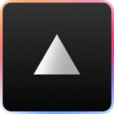
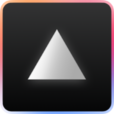
theme config

Changed region(s): [[0.2368, 0.2368, 0.7632, 0.7368]]

diff --git a/apps/docs/theme.config.jsx b/apps/docs/theme.config.jsx
@@ -5,7 +5,205 @@ export default {
   project: {
     link: 'https://github.com/shuding/nextra'
   },
-  logo: <strong>AI Utils</strong>,
+  logo: (
+    <span className="flex gap-2 font-bold text-lg items-center select-none">
+      <svg
+        xmlns="http://www.w3.org/2000/svg"
+        height="24"
+        fill="none"
+        viewBox="0 0 1024 1024"
+      >
+        <g clipPath="url(#clip0_102_208)">
+          <rect
+            width="977.455"
+            height="977.455"
+            x="23.273"
+            y="23.273"
+            fill="url(#paint0_linear_102_208)"
+            rx="79.515"
+          ></rect>
+          <g filter="url(#filter0_di_102_208)">
+            <path
+              fill="url(#paint1_linear_102_208)"
+              d="M511.03 306.424l210.424 362.667H300.606L511.03 306.424z"
+            ></path>
+          </g>
+          <mask
+            id="mask0_102_208"
+            style={{ maskType: 'alpha' }}
+            width="1024"
+            height="1024"
+            x="0"
+            y="0"
+            maskUnits="userSpaceOnUse"
+          >
+            <rect
+              width="1000.73"
+              height="1000.73"
+              x="11.636"
+              y="11.636"
+              stroke="#000"
+              strokeWidth="23.273"
+              rx="91.151"
+            ></rect>
+          </mask>
+          <g filter="url(#filter1_f_102_208)" mask="url(#mask0_102_208)">
+            <path
+              fill="url(#paint2_linear_102_208)"
+              d="M-88.638 197.111l277.355-340.626L630.689 41.738c37.58 187.244 55.072 561.734-175.591 561.734-194.273 0-240.351-110.687-239.325-192.224-23.622 150.658-122.154 378.807-377.242 339.629-43.1-30.278 30.596-381.793 72.83-553.766z"
+            ></path>
+            <path
+              fill="url(#paint3_linear_102_208)"
+              d="M514.513 329.324l339.424 273.797 333.033 24.789c-80.41 173.273-287.78 485.83-473.947 349.874-186.167-135.958-279.862 250.156-219.226 197.766-94.394 110.83-164.922-242.362-365.58-442.213-16.878-49.841 250.498-290.109 386.296-404.013z"
+            ></path>
+            <path
+              fill="url(#paint4_linear_102_208)"
+              d="M987.377 739.387L569.385 614.252 251.741 717.175c8.717-190.768 82.117-558.433 305.986-502.955 223.869 55.478 164.166-337.305 127.908-265.904 45.342-138.248 244.558 161.995 506.075 271.134 34.52 39.752-121.84 363.188-204.333 519.937z"
+            ></path>
+          </g>
+        </g>
+        <defs>
+          <filter
+            id="filter0_di_102_208"
+            width="579.879"
+            height="521.697"
+            x="221.091"
+            y="242.424"
+            colorInterpolationFilters="sRGB"
+            filterUnits="userSpaceOnUse"
+          >
+            <feFlood floodOpacity="0" result="BackgroundImageFix"></feFlood>
+            <feColorMatrix
+              in="SourceAlpha"
+              result="hardAlpha"
+              values="0 0 0 0 0 0 0 0 0 0 0 0 0 0 0 0 0 0 127 0"
+            ></feColorMatrix>
+            <feOffset dy="15.515"></feOffset>
+            <feGaussianBlur stdDeviation="39.758"></feGaussianBlur>
+            <feComposite in2="hardAlpha" operator="out"></feComposite>
+            <feColorMatrix values="0 0 0 0 0 0 0 0 0 0 0 0 0 0 0 0 0 0 0.25 0"></feColorMatrix>
+            <feBlend
+              in2="BackgroundImageFix"
+              result="effect1_dropShadow_102_208"
+            ></feBlend>
+            <feBlend
+              in="SourceGraphic"
+              in2="effect1_dropShadow_102_208"
+              result="shape"
+            ></feBlend>
+            <feColorMatrix
+              in="SourceAlpha"
+              result="hardAlpha"
+              values="0 0 0 0 0 0 0 0 0 0 0 0 0 0 0 0 0 0 127 0"
+            ></feColorMatrix>
+            <feOffset dx="0.97" dy="13.576"></feOffset>
+            <feGaussianBlur stdDeviation="0.97"></feGaussianBlur>
+            <feComposite
+              in2="hardAlpha"
+              k2="-1"
+              k3="1"
+              operator="arithmetic"
+            ></feComposite>
+            <feColorMatrix values="0 0 0 0 0.0286285 0 0 0 0 0.0404458 0 0 0 0 0.0708333 0 0 0 0.06 0"></feColorMatrix>
+            <feBlend in2="shape" result="effect2_innerShadow_102_208"></feBlend>
+          </filter>
+          <filter
+            id="filter1_f_102_208"
+            width="2146.91"
+            height="2115.88"
+            x="-562.424"
+            y="-531.394"
+            colorInterpolationFilters="sRGB"
+            filterUnits="userSpaceOnUse"
+          >
+            <feFlood floodOpacity="0" result="BackgroundImageFix"></feFlood>
+            <feBlend
+              in="SourceGraphic"
+              in2="BackgroundImageFix"
+              result="shape"
+            ></feBlend>
+            <feGaussianBlur
+              result="effect1_foregroundBlur_102_208"
+              stdDeviation="193.939"
+            ></feGaussianBlur>
+          </filter>
+          <linearGradient
+            id="paint0_linear_102_208"
+            x1="512"
+            x2="512"
+            y1="23.273"
+            y2="1000.73"
+            gradientUnits="userSpaceOnUse"
+          >
+            <stop stopColor="#333434"></stop>
+            <stop offset="1" stopColor="#060606"></stop>
+          </linearGradient>
+          <linearGradient
+            id="paint1_linear_102_208"
+            x1="249.709"
+            x2="750.212"
+            y1="532.522"
+            y2="688.409"
+            gradientUnits="userSpaceOnUse"
+          >
+            <stop stopColor="#fff"></stop>
+            <stop offset="0.089" stopColor="#FEFEFE"></stop>
+            <stop offset="0.161" stopColor="#FCFCFC"></stop>
+            <stop offset="0.22" stopColor="#F9F9F9"></stop>
+            <stop offset="0.267" stopColor="#F5F5F5"></stop>
+            <stop offset="0.305" stopColor="#F0F0F0"></stop>
+            <stop offset="0.336" stopColor="#EAEAEA"></stop>
+            <stop offset="0.364" stopColor="#E3E3E3"></stop>
+            <stop offset="0.391" stopColor="#DCDCDC"></stop>
+            <stop offset="0.418" stopColor="#D5D5D5"></stop>
+            <stop offset="0.45" stopColor="#CDCDCD"></stop>
+            <stop offset="0.488" stopColor="#C6C6C6"></stop>
+            <stop offset="0.535" stopColor="#BEBEBE"></stop>
+            <stop offset="0.593" stopColor="#B7B7B7"></stop>
+            <stop offset="0.666" stopColor="#B0B0B0"></stop>
+            <stop offset="0.755" stopColor="#AAA"></stop>
+          </linearGradient>
+          <linearGradient
+            id="paint2_linear_102_208"
+            x1="511.03"
+            x2="511.03"
+            y1="-143.515"
+            y2="1196.61"
+            gradientUnits="userSpaceOnUse"
+          >
+            <stop stopColor="#F90"></stop>
+            <stop offset="1" stopColor="#F09"></stop>
+          </linearGradient>
+          <linearGradient
+            id="paint3_linear_102_208"
+            x1="511.03"
+            x2="511.03"
+            y1="-420.532"
+            y2="923.552"
+            gradientUnits="userSpaceOnUse"
+          >
+            <stop stopColor="#00D1FF"></stop>
+            <stop offset="1" stopColor="#0057FF"></stop>
+          </linearGradient>
+          <linearGradient
+            id="paint4_linear_102_208"
+            x1="420.072"
+            x2="1100.96"
+            y1="571.6"
+            y2="202.116"
+            gradientUnits="userSpaceOnUse"
+          >
+            <stop stopColor="#AD00FF"></stop>
+            <stop offset="1" stopColor="red"></stop>
+          </linearGradient>
+          <clipPath id="clip0_102_208">
+            <path fill="#fff" d="M0 0H1024V1024H0z"></path>
+          </clipPath>
+        </defs>
+      </svg>
+      AI Utils
+    </span>
+  ),
   useNextSeoProps: () => {
     const { title } = useConfig()
     return {
@@ -118,21 +316,14 @@ export default {
       </>
     )
   },
+  docsRepositoryBase:
+    'https://github.com/vercel-labs/ai-utils/tree/main/apps/docs',
   project: {
     link: 'https://github.com/vercel-labs/ai-utils'
   },
   footer: {
     text: (
-      <div
-        style={{
-          display: 'flex',
-          flexDirection: 'column',
-          justifyContent: 'flex-start',
-          alignItems: 'flex-start',
-          gap: '1rem',
-          fontSize: '0.8rem'
-        }}
-      >
+      <div className="flex flex-col justify-center items-center md:items-start gap-4 text-sm text-center">
         <a href="https://vercel.com/" target="_blank">
           <svg
             xmlns="http://www.w3.org/2000/svg"

diff --git a/apps/docs/styles.css b/apps/docs/styles.css
@@ -27,3 +27,15 @@ body {
     fixed 0 0 / 20px 20px radial-gradient(#313131 1px, transparent 0),
     fixed 10px 10px / 20px 20px radial-gradient(#313131 1px, transparent 0);
 }
+
+.main-title {
+  background: linear-gradient(180deg, #555, #000);
+  background-clip: text;
+  -webkit-text-fill-color: transparent;
+}
+
+.dark .main-title {
+  background: linear-gradient(180deg, #fff, #aaa);
+  background-clip: text;
+  -webkit-text-fill-color: transparent;
+}

diff --git a/apps/docs/tailwind.config.js b/apps/docs/tailwind.config.js
@@ -2,6 +2,6 @@ module.exports = {
   content: [
     './components/**/*.js',
     './pages/**/*.{md,mdx}',
-    './theme.config.js'
+    './theme.config.jsx'
   ]
 }
